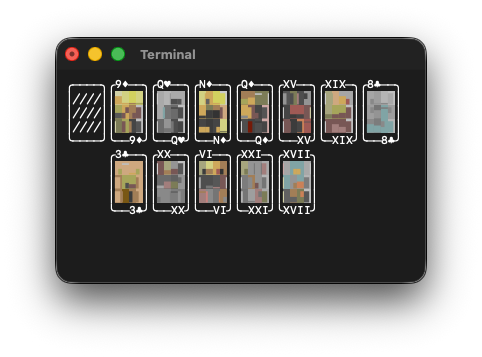
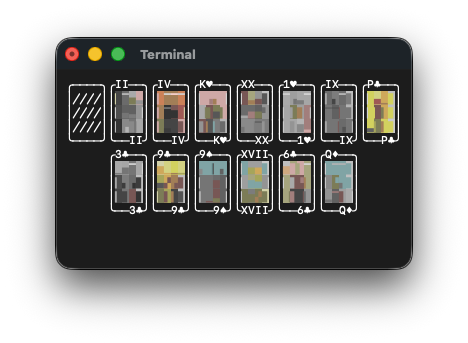
update README.md

Changed region(s): [[0.0897, 0.0875, 0.8974, 0.8163], [0.2991, 0.1458, 0.4188, 0.1749]]

diff --git a/README.md b/README.md
@@ -1,14 +1,14 @@
 # Tarot TUI
 
 <p align="middle">
-  <img width="49%" alt="screenshot" src="./.github/images/example-dark.png" style="display: inline">
-  <img width="49%" alt="" src="./.github/images/example-light.png" style="display: inline">
+  <img width="49%" alt="screenshot" src="./.github/images/example-light.png" style="display: inline">
+  <img width="49%" alt="" src="./.github/images/example-dark.png" style="display: inline">
 </p>
 
 <table>
   <tr>
     <td style="padding-right: 6px; width: 50px;">
-      <img width="50" alt="screenshot" src="./.github/images/all_cards.gif">
+      <img width="50" alt="screenshot" src="./.github/images/all-cards.gif">
     </td>
     <td>
       Made with <a href="https://github.com/charmbracelet/bubbletea">bubbletea</a>. 🧋 <br>
